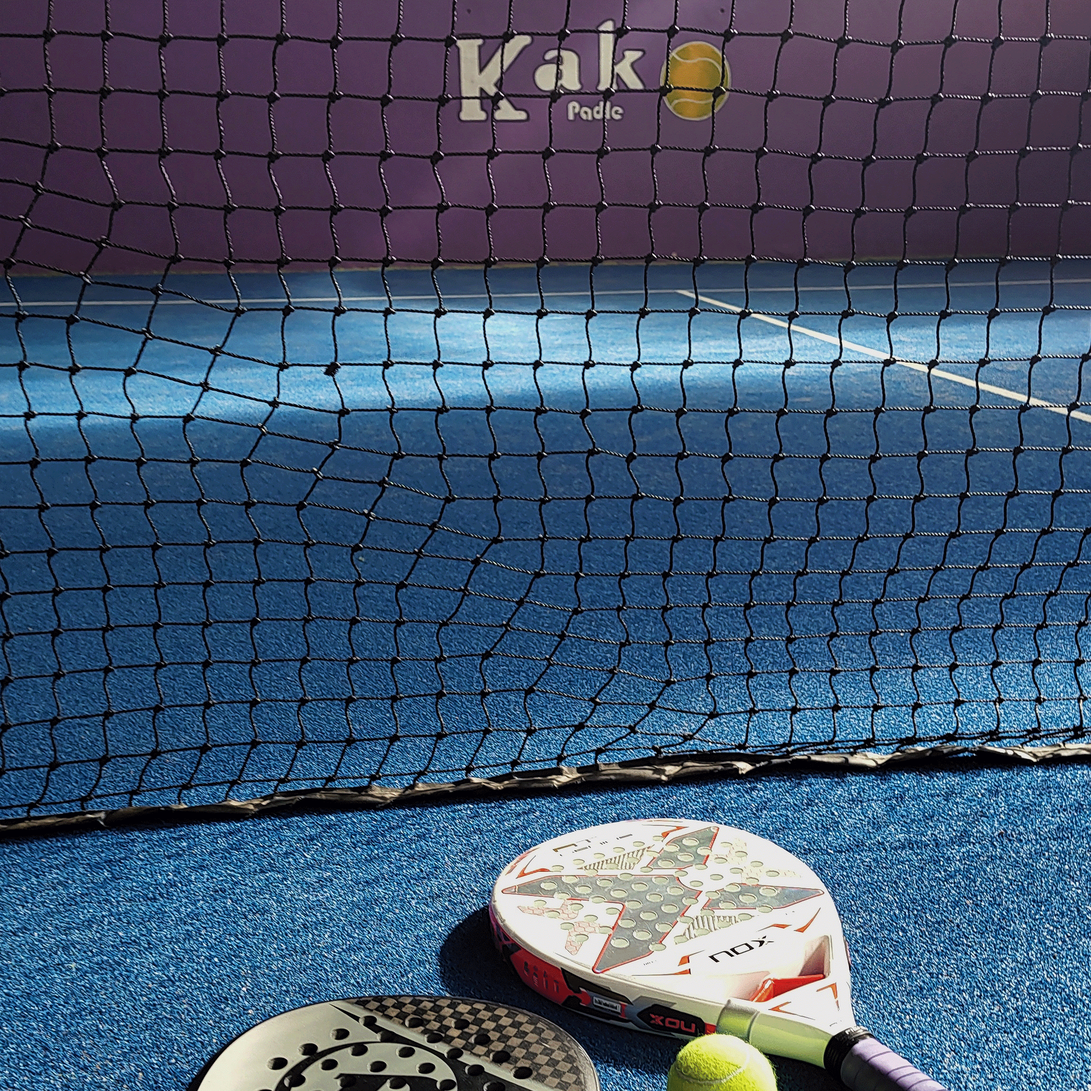
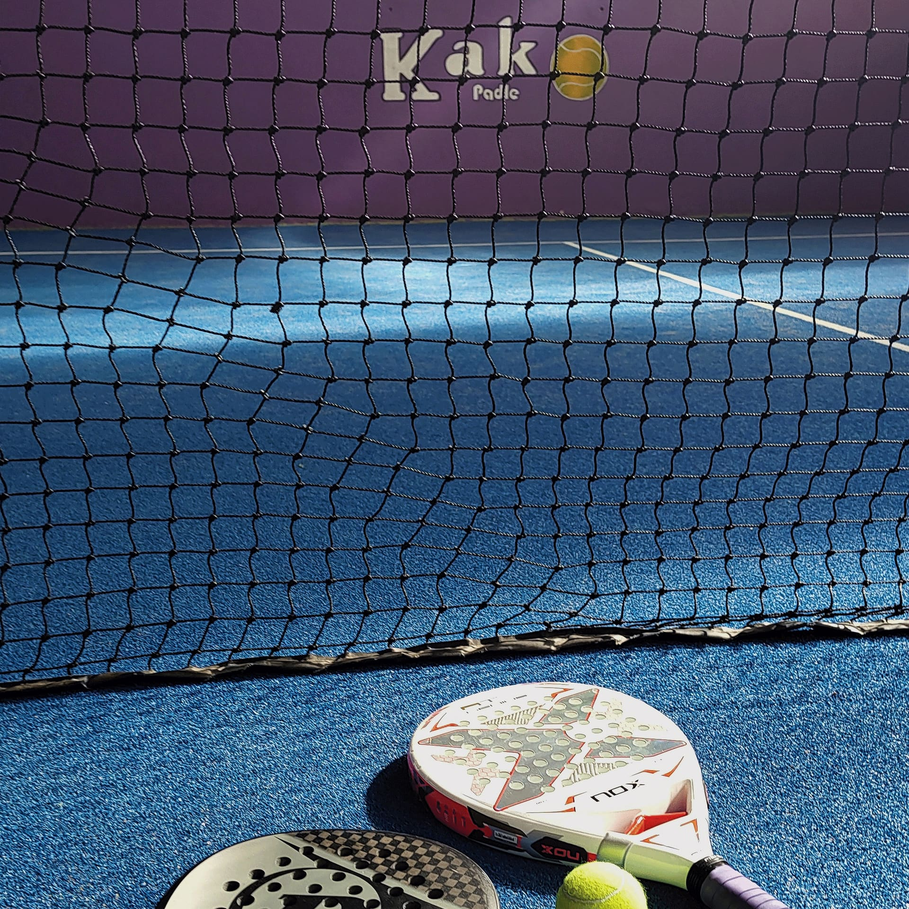
perf: optimizar imagenes y lazy loading de rutas
Comprime y redimensiona los fondos y el logo (de ~24MB a ~2.9MB
en total) que se servian a resolucion de camara sin necesidad.
Ademas separa cada ruta (Home, Auth, Admin, Pagos) en su propio
chunk con React.lazy/Suspense y agrega loading lazy a las imagenes
de la seccion de servicios.

diff --git a/src/App.jsx b/src/App.jsx
@@ -1,48 +1,52 @@
+import { Suspense, lazy } from "react";
 import { BrowserRouter as Router, Routes, Route } from "react-router-dom";
-import Home from "./pages/User/Home";
-import Login from "./pages/Auth/Login";
-import Register from "./pages/Auth/Register";
-import ConfirmarReserva from "./pages/User/ConfirmarReserva";
 
-import LoginAdmin from "./pages/Auth/LoginAdmin";
-import AdminLayout from "./components/Admin/AdminLayout";
-import Dashboard from "./pages/Admin/Dashboard";
-import Reservas from "./pages/Admin/Reservas";
-import Usuarios from "./pages/Admin/Usuarios";
-import Turnos from "./pages/Admin/Turnos";
+const Home = lazy(() => import("./pages/User/Home"));
+const Login = lazy(() => import("./pages/Auth/Login"));
+const Register = lazy(() => import("./pages/Auth/Register"));
+const ConfirmarReserva = lazy(() => import("./pages/User/ConfirmarReserva"));
 
-import PagoSuccess from "./pages/User/PagoSuccess";
-import PagoFailure from "./pages/User/PagoFailure";
+const LoginAdmin = lazy(() => import("./pages/Auth/LoginAdmin"));
+const AdminLayout = lazy(() => import("./components/Admin/AdminLayout"));
+const Dashboard = lazy(() => import("./pages/Admin/Dashboard"));
+const Reservas = lazy(() => import("./pages/Admin/Reservas"));
+const Usuarios = lazy(() => import("./pages/Admin/Usuarios"));
+const Turnos = lazy(() => import("./pages/Admin/Turnos"));
+
+const PagoSuccess = lazy(() => import("./pages/User/PagoSuccess"));
+const PagoFailure = lazy(() => import("./pages/User/PagoFailure"));
 
 function App() {
   return (
     <Router>
-      <Routes>
-        {/* Página principal */}
-        <Route path="/" element={<Home />} />
+      <Suspense fallback={null}>
+        <Routes>
+          {/* Página principal */}
+          <Route path="/" element={<Home />} />
 
-        {/* Login */}
-        <Route path="/login" element={<Login />} />
-        <Route path="/register" element={<Register />} />
+          {/* Login */}
+          <Route path="/login" element={<Login />} />
+          <Route path="/register" element={<Register />} />
 
-        {/* Confirmación de turno */}
-        <Route path="/reservar/:id" element={<ConfirmarReserva />} />
+          {/* Confirmación de turno */}
+          <Route path="/reservar/:id" element={<ConfirmarReserva />} />
 
-         {/* Login Admin */}
-        <Route path="/admin/login" element={<LoginAdmin />} />
-        
-        {/* Panel Admin */}
-        <Route path="/admin" element={<AdminLayout><Dashboard /></AdminLayout>} />
-        <Route path="/admin/dashboard" element={<AdminLayout><Dashboard /></AdminLayout>} />
-        <Route path="/admin/reservas" element={<AdminLayout><Reservas /></AdminLayout>} />
-        <Route path="/admin/usuarios" element={<AdminLayout><Usuarios /></AdminLayout>} />
-        <Route path="/admin/turnos" element={<AdminLayout><Turnos /></AdminLayout>} />
+           {/* Login Admin */}
+          <Route path="/admin/login" element={<LoginAdmin />} />
+
+          {/* Panel Admin */}
+          <Route path="/admin" element={<AdminLayout><Dashboard /></AdminLayout>} />
+          <Route path="/admin/dashboard" element={<AdminLayout><Dashboard /></AdminLayout>} />
+          <Route path="/admin/reservas" element={<AdminLayout><Reservas /></AdminLayout>} />
+          <Route path="/admin/usuarios" element={<AdminLayout><Usuarios /></AdminLayout>} />
+          <Route path="/admin/turnos" element={<AdminLayout><Turnos /></AdminLayout>} />
 
 
-        <Route path="/pago/success" element={<PagoSuccess />} />
-        <Route path="/pago/failure" element={<PagoFailure />} />
+          <Route path="/pago/success" element={<PagoSuccess />} />
+          <Route path="/pago/failure" element={<PagoFailure />} />
 
-      </Routes>
+        </Routes>
+      </Suspense>
     </Router>
   );
 }

diff --git a/src/components/Home/Servicios.jsx b/src/components/Home/Servicios.jsx
@@ -35,7 +35,9 @@ const Servicios = () => {
         {servicios.map((s, i) => (
           <div key={i} className="servicio-card">
             <h3>{s.nombre}</h3>
-            {s.imagen && <img src={s.imagen} alt={s.nombre} />}
+            {s.imagen && (
+              <img src={s.imagen} alt={s.nombre} loading="lazy" decoding="async" />
+            )}
             <p>{s.descripcion}</p>
           </div>
         ))}
